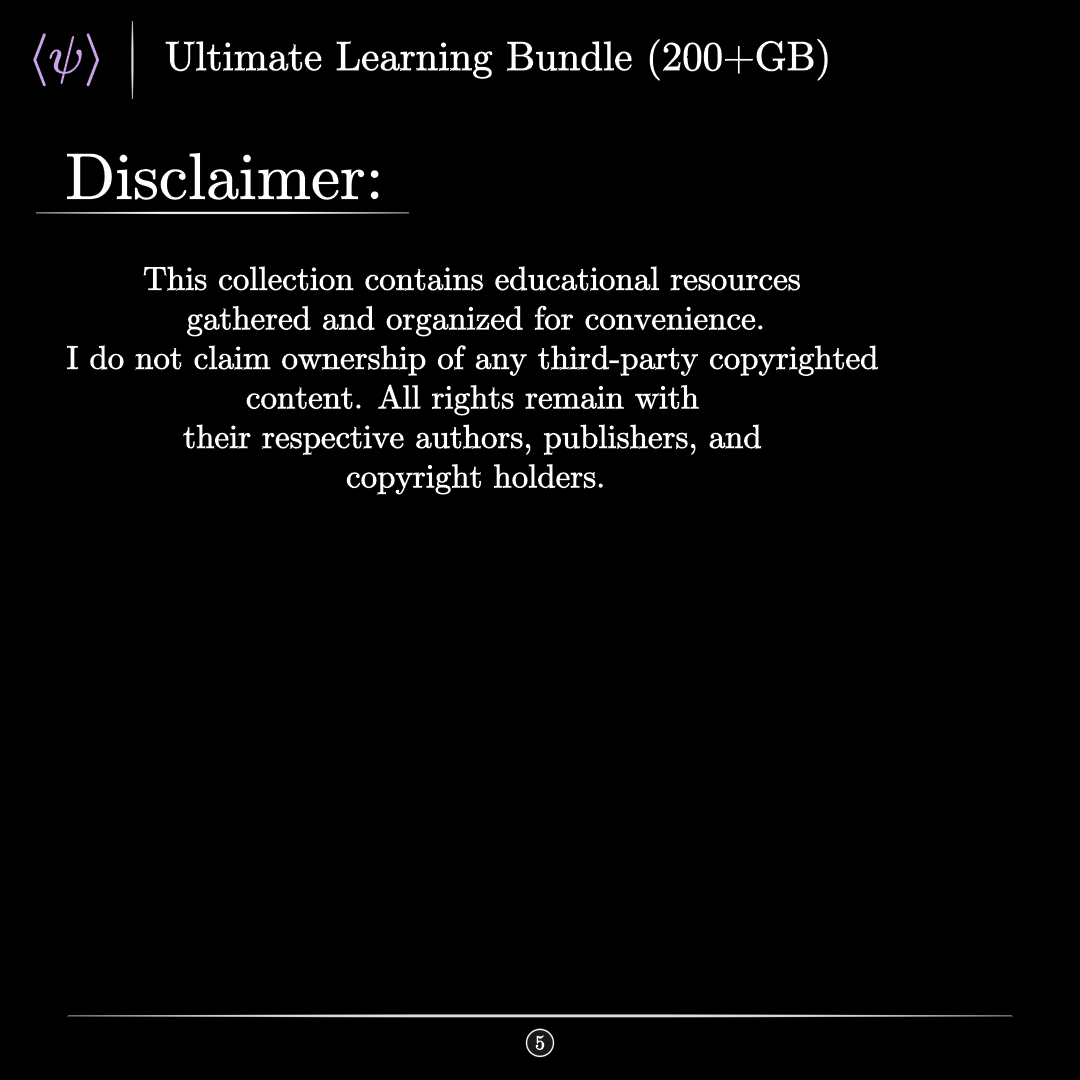
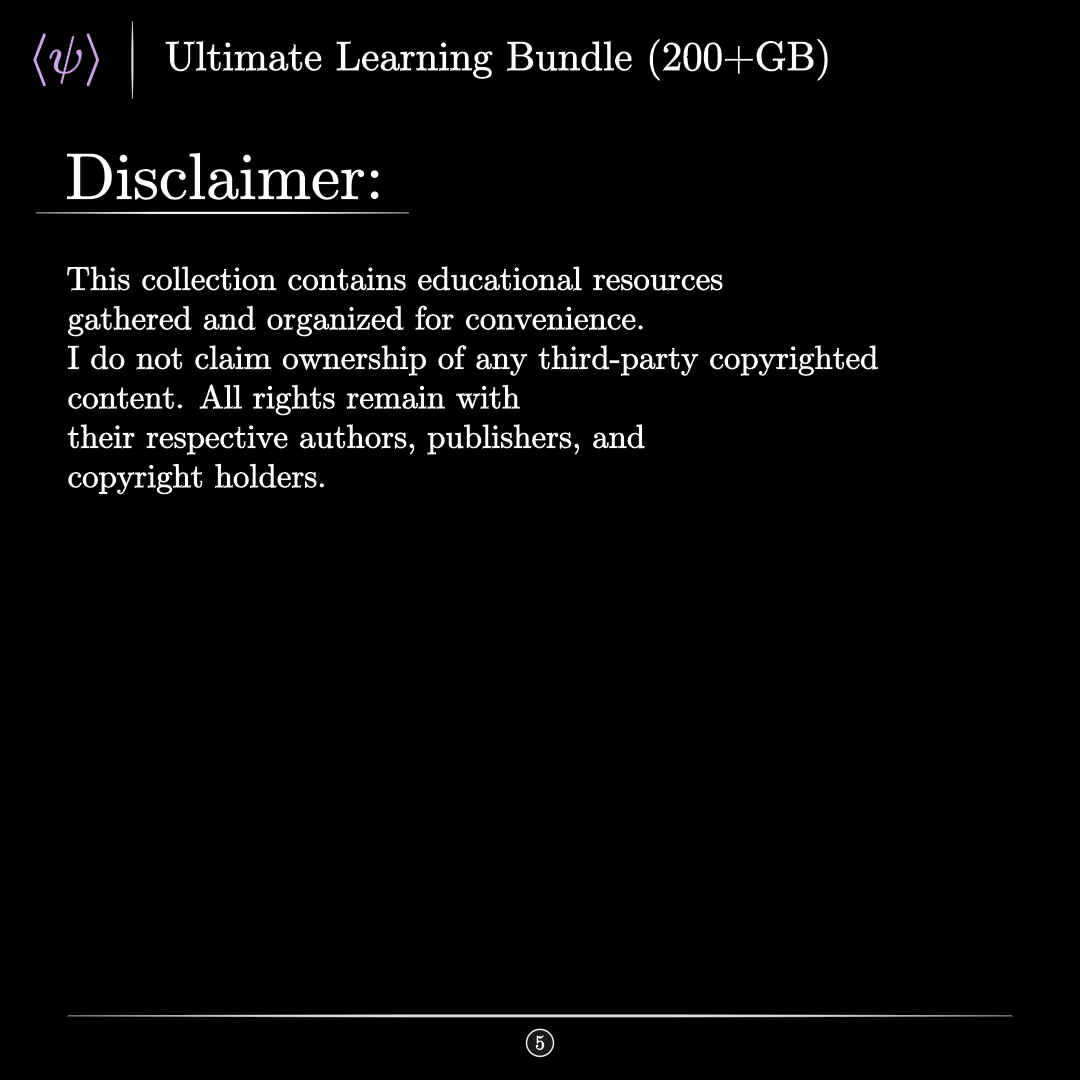
f

Changed region(s): [[0.0611, 0.2444, 0.7333, 0.4583]]

diff --git a/test.py b/test.py
@@ -247,7 +247,7 @@ class Dis(PaidTemplate):
             for convenience.\\ I do not claim ownership of any third-party copyrighted\\
             content. All rights remain with\\ their respective authors, publishers,
             and \\copyright holders.
-            """
+            """, alignment=R"\flushleft"
         )
         dis.set_width(FRAME_WIDTH - 2)
         dis.next_to(t, DOWN, buff=MED_LARGE_BUFF, aligned_edge=LEFT)
